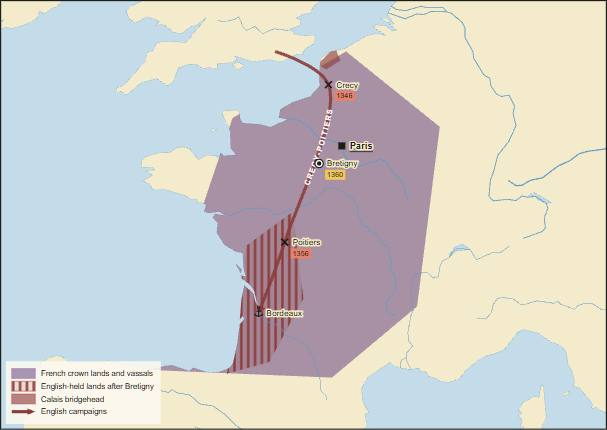
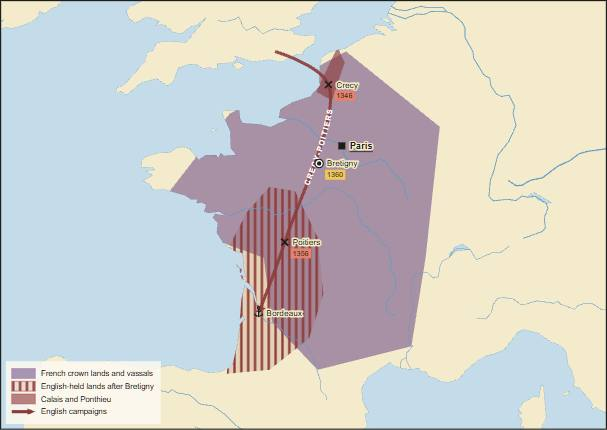
Round 8-9 plate fixes
Copilot-Session: 37f2f47f-8b63-49cd-b8ce-cded564ac449

diff --git a/atlas/plates/hundred-years-war.js b/atlas/plates/hundred-years-war.js
@@ -4,16 +4,19 @@
   const PAR=[2.35,48.86], CAL=[1.85,50.95], BOR=[-0.58,44.84], CRE=[1.88,50.26], POI=[0.34,46.58], AGI=[2.14,50.46], ORL=[1.91,47.9], REI=[4.03,49.26], ROU=[1.1,49.44], DOM=[5.4,47.1];
   window.PLATES["hundred-years-war"] = { id:"hundred-years-war", title:"France and the Hundred Years War", head:"Late Middle Ages / France and England", folio:"25", viewer:"medieval/1429/ch-hundred-years-war", figures:[
     { caption:"English claims and the treaty map, 1328-1360", share:0.5, extent:[[-6,42],[8,52]], projection:"mercator", layers:[
-      {id:"france-1328",type:"area",tier:"core",colour:FR,legend:"French crown lands and vassals",polygon:[[-4.5,43.4],[-1.5,49.5],[2.5,51.0],[5.8,49.3],[5.0,45.0],[2.0,43.2]],smooth:false},
-      {id:"english-1360",type:"area",tier:"conquest",colour:ENG,legend:"English-held lands after Bretigny",polygon:[[-1.7,43.3],[-1.0,46.5],[0.6,47.3],[1.0,45.2],[-0.2,43.6]],smooth:false},
-      {id:"calais",type:"area",tier:"core",colour:ENG,legend:"Calais bridgehead",polygon:[[1.5,50.7],[2.1,51.1],[2.3,50.8],[1.8,50.6]],smooth:false},
+      {id:"france-north-1328",type:"area",tier:"core",colour:FR,legend:"French crown lands and vassals",polygon:[[-4.4,47.2],[-1.6,49.6],[2.5,51.0],[5.8,49.3],[5.3,46.2],[2.0,45.3],[-0.4,46.2]],smooth:false},
+      {id:"france-east-1328",type:"area",tier:"core",colour:FR,polygon:[[1.5,43.4],[4.8,44.0],[5.3,46.2],[2.0,45.3],[-0.4,46.2],[-0.1,44.6]],smooth:false},
+      {id:"english-1360",type:"area",tier:"conquest",colour:ENG,legend:"English-held lands after Bretigny",polygon:[[-1.7,43.3],[-1.5,45.2],[-1.6,46.5],[-1.0,47.3],[-0.2,47.9],[0.7,47.8],[1.5,46.7],[1.7,45.3],[1.2,44.2],[-0.2,43.4]],smooth:false},
+      {id:"calais",type:"area",tier:"core",colour:ENG,legend:"Calais and Ponthieu",polygon:[[1.45,50.1],[2.2,51.1],[2.45,50.75],[2.0,49.9]],smooth:false},
       {id:"edward-claim",type:"arrow",colour:ENG,width:3.2,legend:"English campaigns",path:[[0.0,51.0],CRE,POI,BOR],label:"Crecy-Poitiers"},
       {id:"paris",type:"point",symbol:"capital",at:PAR,name:"Paris"}, {id:"crecy",type:"point",symbol:"battle",at:CRE,name:"Crecy",tag:{text:"1346",colour:"#e8806a"}},
       {id:"poitiers",type:"point",symbol:"battle",at:POI,name:"Poitiers",tag:{text:"1356",colour:"#e8806a"}}, {id:"bretigny",type:"point",symbol:"treaty",at:[1.55,48.45],name:"Bretigny",tag:{text:"1360",colour:"#f1c75b"}}, {id:"bordeaux",type:"point",symbol:"port",at:BOR,name:"Bordeaux"}
     ], legend:{position:"bottom-left",columns:1}},
     { caption:"Burgundy, Joan of Arc and the French recovery, 1415-1453", share:0.5, extent:[[-6,42],[8,52]], projection:"mercator", layers:[
-      {id:"english-1429",type:"area",tier:"core",colour:ENG,legend:"English-held north and Guyenne, c. 1429",polygon:[[-1.0,49.0],[0.8,50.4],[2.8,50.1],[3.0,48.8],[1.0,48.5],[-0.5,48.2],[-1.2,44.0],[-0.2,43.5],[0.6,45.0],[0.5,47.0]],smooth:false},
-      {id:"burgundy",type:"area",tier:"influence",colour:BUR,legend:"Burgundian power",polygon:[[3.0,47.0],[4.8,50.0],[6.5,49.0],[6.3,46.5],[4.5,46.0]],smooth:false},
+      {id:"english-1429",type:"area",tier:"core",colour:ENG,legend:"English-held north, c. 1429",polygon:[[-1.5,48.7],[-0.6,49.7],[0.5,50.3],[2.4,50.4],[4.3,49.6],[4.7,48.5],[3.2,48.0],[1.8,48.2],[0.2,48.5]],smooth:false},
+      {id:"english-guyenne-1429",type:"area",tier:"core",colour:ENG,legend:"Guyenne coastal strip",polygon:[[-1.7,43.4],[-1.4,44.9],[-1.0,45.3],[-0.4,45.0],[-0.4,43.7],[-1.0,43.3]],smooth:false},
+      {id:"burgundy",type:"area",tier:"influence",colour:BUR,legend:"Burgundian duchy",polygon:[[3.5,46.5],[5.3,47.7],[5.1,48.5],[4.1,48.2],[3.5,47.2]],smooth:false},
+      {id:"burgundy-low-countries",type:"area",tier:"influence",colour:BUR,legend:"Flanders, Artois and Low Countries",polygon:[[2.2,50.0],[3.0,51.4],[5.7,52.0],[6.9,50.6],[5.2,49.4],[3.0,49.6]],smooth:false},
       {id:"loire",type:"arrow",colour:FR,width:3,legend:"French recovery",path:[DOM,ORL,REI,ROU,[0.6,49.2],BOR],label:"1429-53"},
       {id:"agincourt",type:"point",symbol:"battle",at:AGI,name:"Agincourt",tag:{text:"1415",colour:"#e8806a"}},
       {id:"orleans",type:"point",symbol:"siege",at:ORL,name:"Orleans",tag:{text:"1429",colour:"#f1c75b"}}, {id:"reims",type:"point",symbol:"capital",at:REI,name:"Reims",tag:{text:"1429",colour:"#f1c75b"}},
@@ -21,11 +24,11 @@
     ], legend:{position:"bottom-left",columns:1}}
   ], text:{intro:"The Hundred Years War was a dynastic claim, a war over English lands in France and a test of whether the French crown could survive defeat.", sections:[
     {heading:"Treaty map", entries:[
-      {date:"1328-1360", text:"A disputed succession lets English kings press a claim to France. Crecy and Poitiers force the Treaty of Bretigny, which expands English Aquitaine and confirms Calais.", refs:["france-1328","english-1360","calais","edward-claim","crecy","poitiers","bretigny"]},
+      {date:"1328-1360", text:"A disputed succession lets English kings press a claim to France. Crecy and Poitiers force the Treaty of Bretigny, which expands English Aquitaine and confirms Calais.", refs:["france-north-1328","france-east-1328","english-1360","calais","edward-claim","crecy","poitiers","bretigny"]},
       {date:"1360", text:"Bordeaux and Guyenne matter because England is still a continental lord, not only an island kingdom.", refs:["bordeaux","english-1360"]}
     ]},
     {heading:"Recovery", entries:[
-      {date:"1415-1429", text:"Agincourt and the Burgundian alliance put the French monarchy near collapse before Joan of Arc helps lift Orleans and brings Charles VII to Reims.", refs:["agincourt","burgundy","english-1429","orleans","reims"]},
+      {date:"1415-1429", text:"Agincourt and the Burgundian alliance put the French monarchy near collapse before Joan of Arc helps lift Orleans and brings Charles VII to Reims.", refs:["agincourt","burgundy","burgundy-low-countries","english-1429","english-guyenne-1429","orleans","reims"]},
       {date:"1431-1453", text:"Joan is executed at Rouen, but the French recovery continues. Castillon ends English rule in Guyenne, leaving Calais as the last major bridgehead.", refs:["rouen","loire","castillon","paris2"]}
     ]}
   ]}, sources:["Penguin Atlas Vol. 1 pp. 189-192", "Approximate campaign and control fields; coastlines and rivers: Natural Earth 1:50m"] };

diff --git a/atlas/plates/angevin-empire.js b/atlas/plates/angevin-empire.js
@@ -11,7 +11,8 @@
     ], legend:{position:"bottom-left",columns:1} },
     { caption:"The Angevin realm and its crisis", share:0.52, extent:[[-9,42],[5,57]], projection:"mercator", layers:[
       {id:"england2",type:"area",tier:"core",colour:ENG,legend:"England (not Wales)",polygon:[[-5.7,50.0],[-4.4,50.3],[-2.6,50.5],[-0.5,50.7],[1.4,51.0],[1.3,52.3],[0.4,53.3],[-1.1,54.3],[-2.1,55.0],[-2.9,55.5],[-3.3,54.9],[-2.8,54.1],[-3.0,53.1],[-2.7,52.3],[-3.3,51.9],[-4.4,51.8],[-5.2,51.2]],smooth:false},
-      {id:"angevin",type:"area",tier:"conquest",colour:ANJ,legend:"Angevin lands in France",polygon:[[-2.2,43.1],[-1.8,45.0],[-1.4,47.6],[-1.2,49.7],[0.2,50.1],[1.7,49.7],[2.3,47.2],[1.0,45.0],[-0.2,43.5]],smooth:true},
+      {id:"angevin",type:"area",tier:"conquest",colour:ANJ,legend:"Angevin lands in France",polygon:[[-1.9,43.1],[-1.6,45.0],[-1.4,46.6],[-2.0,47.8],[-1.5,49.6],[-0.4,49.9],[1.6,49.9],[1.7,48.9],[0.9,47.8],[1.1,46.5],[0.4,45.2],[0.5,44.1],[-0.2,43.3]],smooth:false},
+      {id:"brittany",type:"area",tier:"influence",colour:ANJ,legend:"Brittany dependent",polygon:[[-4.8,47.8],[-3.3,48.8],[-1.5,49.6],[-2.0,47.8],[-3.8,47.5]],smooth:false},
       {id:"ireland",type:"area",tier:"influence",colour:IR,legend:"English foothold in Ireland",polygon:[[-8,51.5],[-6.5,54.2],[-5.5,53.0],[-5.8,51.8]],smooth:true},
       {id:"capetian",type:"area",tier:"influence",colour:FR,legend:"Capetian pressure",polygon:[[0.8,47.5],[2.3,49.7],[4.2,49.2],[4.0,47.2],[2.1,46.8]],smooth:"basis"},
       {id:"loss",type:"boundary",style:"partition",colour:LINE,width:2.6,legend:"Losses to Philip II",path:[[0.0,50.0],[0.0,48.8],[0.6,47.5],[0.3,46.5]]},
@@ -23,7 +24,7 @@
       {date:"1106", text:"Henry I reunites England and Normandy after Tinchebray, keeping the Channel at the centre of English politics.", refs:["england","normandy","winchester"]}
     ]},
     {heading:"Angevin crisis", entries:[
-      {date:"1154", text:"Henry II inherits England, Normandy, Anjou and Aquitaine through family claims and Eleanor of Aquitaine.", refs:["england2","angevin","angers","bordeaux"]},
+      {date:"1154", text:"Henry II inherits England, Normandy, Anjou and Aquitaine through family claims and Eleanor of Aquitaine; Brittany sits in the Angevin orbit.", refs:["england2","angevin","brittany","angers","bordeaux"]},
       {date:"1171", text:"English power begins in Ireland, adding another frontier to the Angevin world.", refs:["ireland","dublin"]},
       {date:"1204-15", text:"John loses Normandy to Philip II, loses at Bouvines, and then grants Magna Carta at Runnymede under baronial pressure.", refs:["loss","capetian","rouen","bouvines","runnymede"]}
     ]}

diff --git a/atlas/plates/medieval-trade-networks.js b/atlas/plates/medieval-trade-networks.js
@@ -14,10 +14,10 @@
       {id:"novgorod",type:"point",symbol:"large-city",hub:4,hubColour:STEP,at:NOV,name:"Novgorod"}, {id:"riga",type:"point",symbol:"port",at:RIG,name:"Riga"}, {id:"danzig",type:"point",symbol:"port",at:VIS,name:"Danzig"}
     ], legend:{position:"bottom-left",columns:1}},
     { caption:"Venice, Genoa and the eastern Mediterranean", share:0.5, extent:[[-2,29],[43,48]], projection:"conic", layers:[
-      {id:"venice-route",type:"route",style:"dotted",weight:4,colour:VEN,legend:"Venetian spice and luxury routes",path:[VENICE,CON,TRE,[41,42],TANA]},
-      {id:"venice-egypt",type:"route",style:"dotted",weight:3,colour:VEN,path:[VENICE,[18,39],ALEX]},
-      {id:"genoa-black-sea",type:"route",style:"dotted",weight:4,colour:GEN,legend:"Genoese Black Sea routes",path:[GENOA,[16,39],CON,CAFFA,TANA]},
-      {id:"levant",type:"route",style:"dotted",weight:2,colour:GOODS,legend:"Levantine ports",path:[VENICE,[22,38],BEIR,ALEX]},
+      {id:"venice-route",type:"route",style:"dotted",weight:4,colour:VEN,legend:"Venetian spice and luxury routes",path:[VENICE,[13.8,44.6],[15.4,42.2],[18.2,39.6],[22.5,38.0],CON,TRE,[41,42],TANA]},
+      {id:"venice-egypt",type:"route",style:"dotted",weight:3,colour:VEN,path:[VENICE,[13.8,44.6],[15.4,42.2],[18.2,39.6],[22.5,36.2],[26.5,34.0],ALEX]},
+      {id:"genoa-black-sea",type:"route",style:"dotted",weight:4,colour:GEN,legend:"Genoese Black Sea routes",path:[GENOA,[9.5,43.2],[10.8,41.0],[12.5,38.3],[15.6,38.1],[19.0,37.5],[23.0,38.4],CON,CAFFA,TANA]},
+      {id:"levant",type:"route",style:"dotted",weight:2,colour:GOODS,legend:"Levantine ports",path:[VENICE,[13.8,44.6],[15.4,42.2],[18.2,39.6],[22.5,36.2],BEIR,ALEX]},
       {id:"venice",type:"point",symbol:"port",hub:5,hubColour:VEN,at:VENICE,name:"Venice"}, {id:"genoa",type:"point",symbol:"port",hub:5,hubColour:GEN,at:GENOA,name:"Genoa"},
       {id:"constantinople",type:"point",symbol:"capital",hub:4,hubColour:GOODS,at:CON,name:"Constantinople"}, {id:"caffa",type:"point",symbol:"port",hub:3,hubColour:GEN,at:CAFFA,name:"Caffa"},
       {id:"alexandria",type:"point",symbol:"port",hub:4,hubColour:VEN,at:ALEX,name:"Alexandria"}, {id:"beirut",type:"point",symbol:"port",at:BEIR,name:"Beirut"}, {id:"tana",type:"point",symbol:"port",at:TANA,name:"Tana"}
